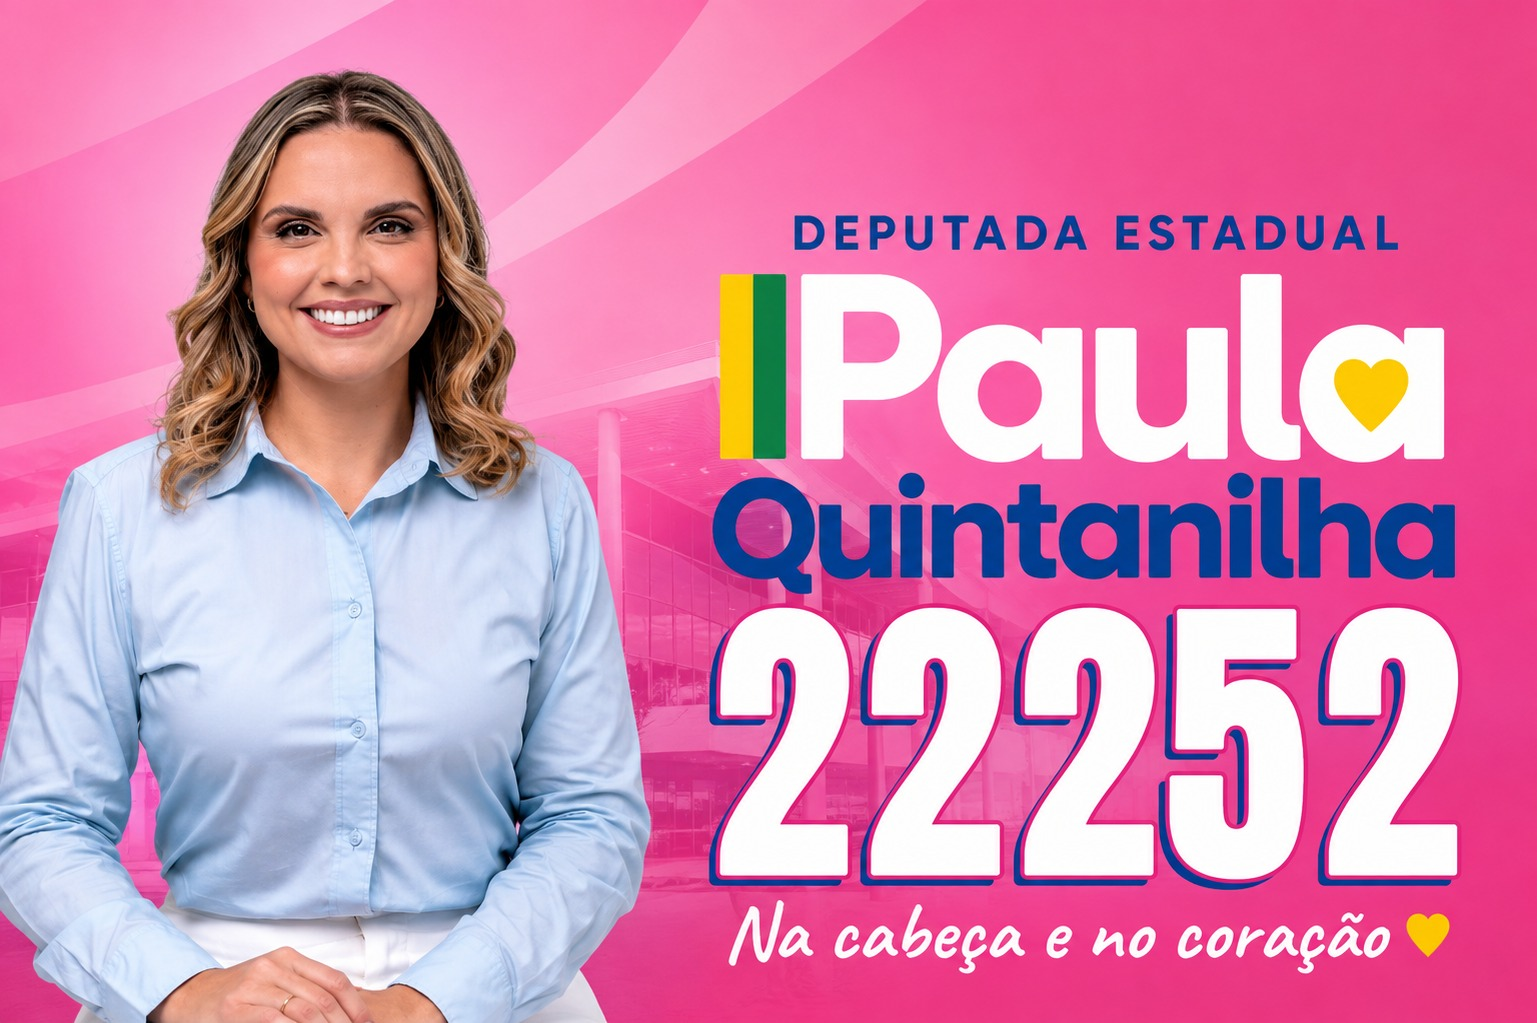
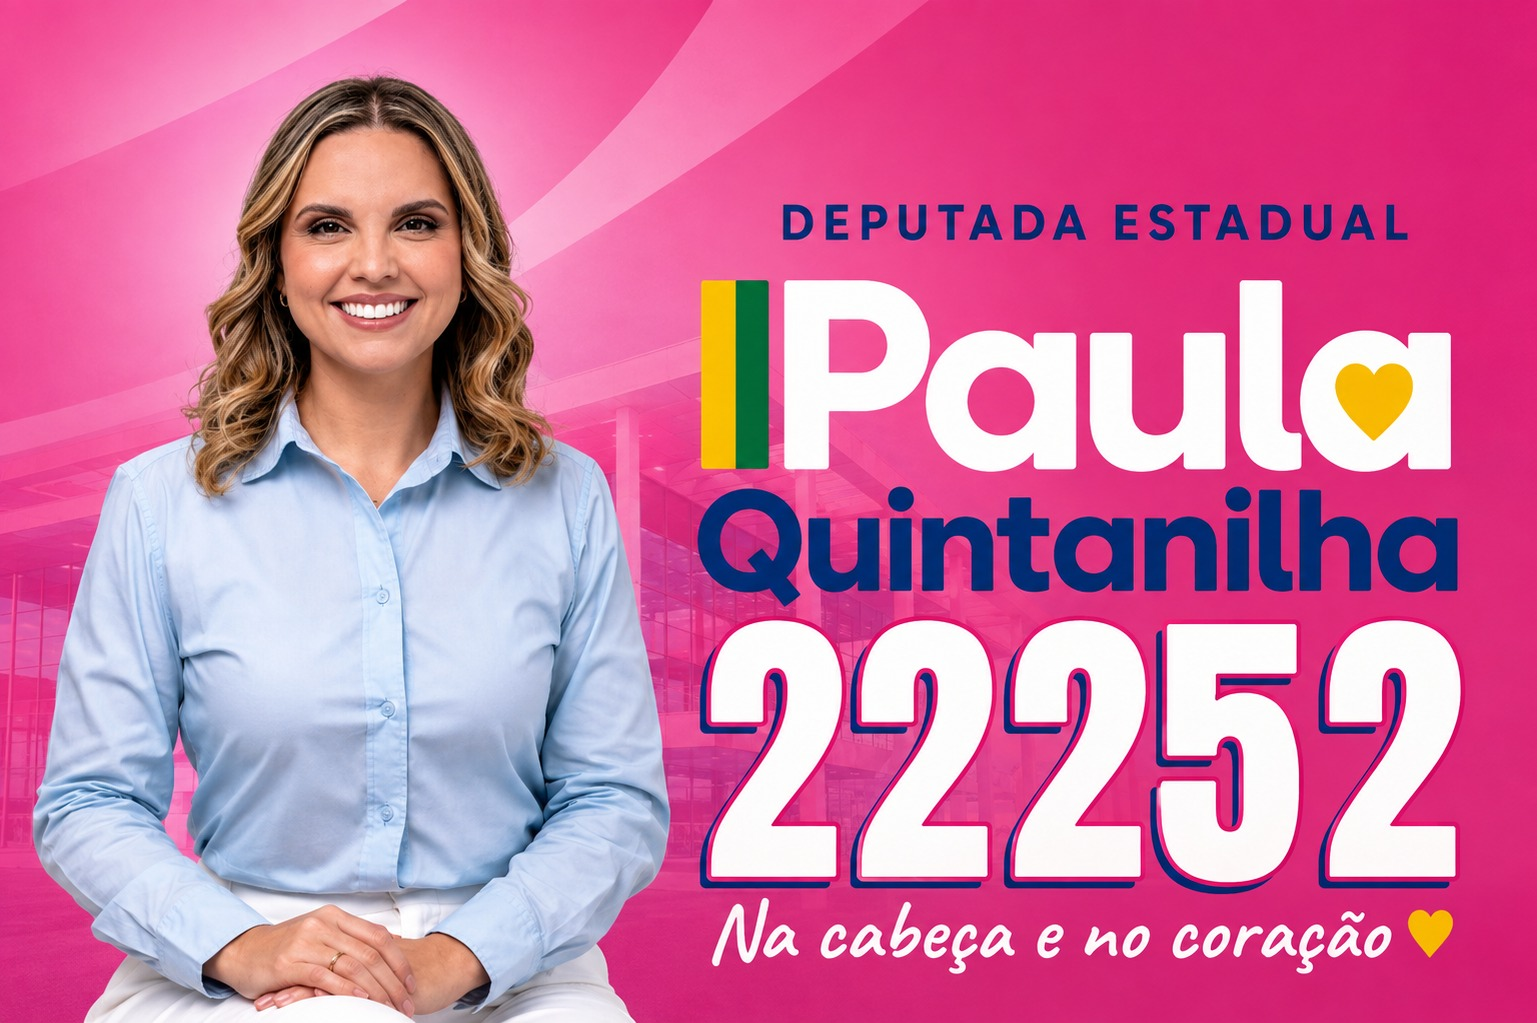
fix: atualiza visibilidade de apoiadores apos cadastro

diff --git a/apps/web/src/components/admin/content-manager.tsx b/apps/web/src/components/admin/content-manager.tsx
@@ -20,6 +20,7 @@ import { ProtectedRoute } from '@/components/auth/protected-route';
 import { DashboardLayout } from '@/components/layout/dashboard-layout';
 import { Role } from '@platform/types';
 import { buildContentCommunicationDraft } from '@/lib/content-communication-draft';
+import { datetimeLocalValueToIso, isoToDatetimeLocalValue, postToForm } from '@/lib/post-form';
 
 type ContentType = 'posts' | 'events' | 'lives';
 
@@ -169,15 +170,7 @@ function ContentManagerInner({ type, title }: ContentManagerProps) {
     setEditingId(item.id);
     if (type === 'posts') {
       const p = item as PostPublic;
-      setPostForm({
-        title: p.title,
-        description: p.description,
-        imageUrl: p.imageUrl || '',
-        videoUrl: p.videoUrl || '',
-        category: p.category,
-        published: p.published,
-        publishedAt: p.publishedAt,
-      });
+      setPostForm(postToForm(p));
     } else if (type === 'events') {
       const ev = item as EventPublic;
       setEventForm({
@@ -222,13 +215,15 @@ function ContentManagerInner({ type, title }: ContentManagerProps) {
                   onChange={(e) => setPostForm({ ...postForm, description: e.target.value })} />
                 <Input label="URL da imagem" value={postForm.imageUrl} error={errors.imageUrl}
                   onChange={(e) => setPostForm({ ...postForm, imageUrl: e.target.value })} />
+                <p className="-mt-2 text-xs text-slate-500">Envie a imagem para um storage persistente e informe aqui a URL pública. Upload direto estará disponível quando o storage for configurado.</p>
                 <Input label="URL do vídeo" value={postForm.videoUrl} error={errors.videoUrl}
                   onChange={(e) => setPostForm({ ...postForm, videoUrl: e.target.value })} />
+                <p className="-mt-2 text-xs text-slate-500">Vídeos continuam sendo vinculados por URL; nenhum arquivo é armazenado no banco.</p>
                 <Select label="Categoria" options={categoryOptions} value={postForm.category}
                   onChange={(e) => setPostForm({ ...postForm, category: e.target.value as PostCategory })} />
                 <Input label="Data de publicação" type="datetime-local"
-                  value={postForm.publishedAt ? postForm.publishedAt.slice(0, 16) : ''}
-                  onChange={(e) => setPostForm({ ...postForm, publishedAt: new Date(e.target.value).toISOString() })} />
+                  value={isoToDatetimeLocalValue(postForm.publishedAt)} error={errors.publishedAt}
+                  onChange={(e) => setPostForm({ ...postForm, publishedAt: datetimeLocalValueToIso(e.target.value) })} />
               </>
             )}
             {type === 'events' && (

diff --git a/apps/api/src/routes/posts.ts b/apps/api/src/routes/posts.ts
@@ -5,6 +5,7 @@ import { sanitizeString, validatePostInput } from '@platform/utils';
 import { prisma } from '../lib/prisma';
 import { toPostPublic } from '../lib/mappers';
 import { notifyAllUsers } from '../lib/notifications';
+import { resolvePublishedAt } from '../lib/post-date';
 
 const authorSelect = { firstName: true, lastName: true };
 
@@ -36,6 +37,10 @@ export async function postRoutes(fastify: FastifyInstance) {
       if (!validation.valid) {
         return reply.status(400).send({ message: 'Dados inválidos', errors: validation.errors });
       }
+      const publishedAt = resolvePublishedAt(body.publishedAt, new Date());
+      if (!publishedAt) {
+        return reply.status(400).send({ message: 'Dados inválidos', errors: { publishedAt: 'Data de publicação inválida' } });
+      }
 
       const post = await prisma.post.create({
         data: {
@@ -44,7 +49,7 @@ export async function postRoutes(fastify: FastifyInstance) {
           imageUrl: body.imageUrl?.trim() || null,
           videoUrl: body.videoUrl?.trim() || null,
           category: (body.category as PostCategory) || PostCategory.GERAL,
-          publishedAt: body.publishedAt ? new Date(body.publishedAt) : new Date(),
+          publishedAt,
           published: body.published ?? true,
           authorId: request.user.sub,
           campaignId: request.user.campaignId,
@@ -92,6 +97,10 @@ export async function postRoutes(fastify: FastifyInstance) {
       if (!validation.valid) {
         return reply.status(400).send({ message: 'Dados inválidos', errors: validation.errors });
       }
+      const publishedAt = resolvePublishedAt(body.publishedAt, existing.publishedAt);
+      if (!publishedAt) {
+        return reply.status(400).send({ message: 'Dados inválidos', errors: { publishedAt: 'Data de publicação inválida' } });
+      }
 
       const post = await prisma.post.update({
         where: { id: request.params.id },
@@ -101,7 +110,7 @@ export async function postRoutes(fastify: FastifyInstance) {
           ...(body.imageUrl !== undefined && { imageUrl: body.imageUrl?.trim() || null }),
           ...(body.videoUrl !== undefined && { videoUrl: body.videoUrl?.trim() || null }),
           ...(body.category !== undefined && { category: body.category as PostCategory }),
-          ...(body.publishedAt !== undefined && { publishedAt: new Date(body.publishedAt) }),
+          ...(body.publishedAt !== undefined && { publishedAt }),
           ...(body.published !== undefined && { published: body.published }),
         },
         include: { author: { select: authorSelect } },

diff --git a/apps/web/src/lib/post-form.test.ts b/apps/web/src/lib/post-form.test.ts
@@ -1,0 +1,41 @@
+import assert from 'node:assert/strict';
+import test from 'node:test';
+import { PostCategory, type PostPublic } from '@platform/types';
+import { datetimeLocalValueToIso, isoToDatetimeLocalValue, postToForm } from './post-form';
+
+const post: PostPublic = {
+  id: 'post-1',
+  title: 'Um post de teste',
+  description: 'Descrição completa do post',
+  imageUrl: 'https://cdn.example.com/image.jpg',
+  videoUrl: 'https://cdn.example.com/video.mp4',
+  category: PostCategory.GERAL,
+  publishedAt: '2026-08-20T15:30:00.000Z',
+  published: true,
+  authorName: 'Admin Teste',
+  createdAt: '2026-08-20T15:00:00.000Z',
+  updatedAt: '2026-08-20T15:00:00.000Z',
+};
+
+test('edição preserva URLs existentes de imagem e vídeo', () => {
+  const form = postToForm(post);
+  assert.equal(form.imageUrl, post.imageUrl);
+  assert.equal(form.videoUrl, post.videoUrl);
+  assert.equal(form.category, post.category);
+});
+
+test('ISO é exibido em datetime-local no horário local e volta ao mesmo instante', () => {
+  const localValue = isoToDatetimeLocalValue(post.publishedAt);
+  assert.equal(datetimeLocalValueToIso(localValue), post.publishedAt);
+});
+
+test('data vazia permanece vazia sem Invalid Date', () => {
+  assert.equal(isoToDatetimeLocalValue(undefined), '');
+  assert.equal(datetimeLocalValueToIso(''), undefined);
+});
+
+test('alterar datetime-local gera ISO válido para persistência', () => {
+  const iso = datetimeLocalValueToIso('2026-09-10T19:45');
+  assert.equal(Number.isNaN(Date.parse(iso || '')), false);
+  assert.equal(isoToDatetimeLocalValue(iso), '2026-09-10T19:45');
+});

diff --git a/apps/web/src/lib/post-form.ts b/apps/web/src/lib/post-form.ts
@@ -1,0 +1,30 @@
+import type { CreatePostRequest, PostPublic } from '@platform/types';
+
+function pad(value: number) {
+  return String(value).padStart(2, '0');
+}
+
+export function isoToDatetimeLocalValue(value: string | undefined): string {
+  if (!value) return '';
+  const date = new Date(value);
+  if (Number.isNaN(date.getTime())) return '';
+  return `${date.getFullYear()}-${pad(date.getMonth() + 1)}-${pad(date.getDate())}T${pad(date.getHours())}:${pad(date.getMinutes())}`;
+}
+
+export function datetimeLocalValueToIso(value: string): string | undefined {
+  if (!value.trim()) return undefined;
+  const date = new Date(value);
+  return Number.isNaN(date.getTime()) ? undefined : date.toISOString();
+}
+
+export function postToForm(post: PostPublic): CreatePostRequest {
+  return {
+    title: post.title,
+    description: post.description,
+    imageUrl: post.imageUrl || '',
+    videoUrl: post.videoUrl || '',
+    category: post.category,
+    published: post.published,
+    publishedAt: post.publishedAt,
+  };
+}

diff --git a/apps/api/src/lib/post-date.test.ts b/apps/api/src/lib/post-date.test.ts
@@ -1,0 +1,21 @@
+import assert from 'node:assert/strict';
+import test from 'node:test';
+import { resolvePublishedAt } from './post-date';
+
+const fallback = new Date('2026-08-20T12:00:00.000Z');
+
+test('data vazia usa o fallback sem criar Invalid Date', () => {
+  assert.equal(resolvePublishedAt(undefined, fallback), fallback);
+  assert.equal(resolvePublishedAt('', fallback), fallback);
+});
+
+test('data ISO válida preserva exatamente o instante recebido', () => {
+  assert.equal(
+    resolvePublishedAt('2026-08-20T22:30:00.000Z', fallback)?.toISOString(),
+    '2026-08-20T22:30:00.000Z',
+  );
+});
+
+test('data inválida é rejeitada', () => {
+  assert.equal(resolvePublishedAt('data-invalida', fallback), null);
+});

diff --git a/apps/api/src/lib/post-date.ts b/apps/api/src/lib/post-date.ts
@@ -1,0 +1,5 @@
+export function resolvePublishedAt(value: string | undefined, fallback: Date): Date | null {
+  if (value === undefined || value.trim() === '') return fallback;
+  const parsed = new Date(value);
+  return Number.isNaN(parsed.getTime()) ? null : parsed;
+}
